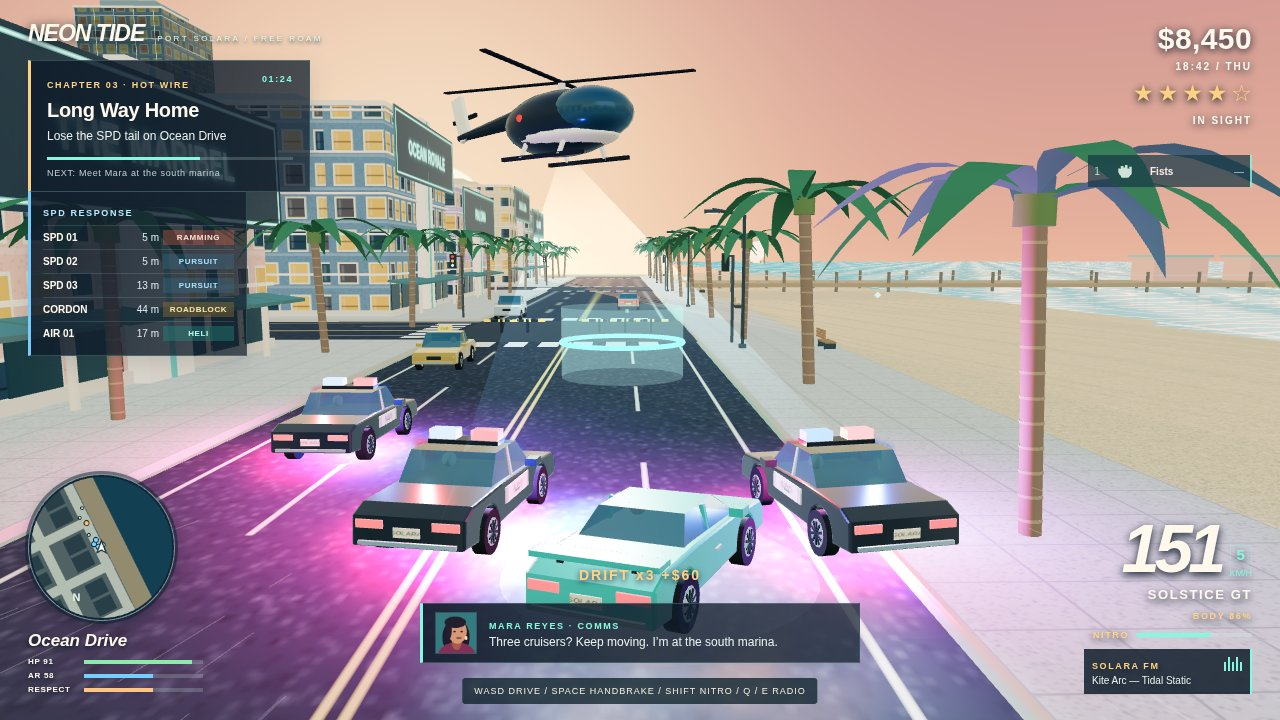
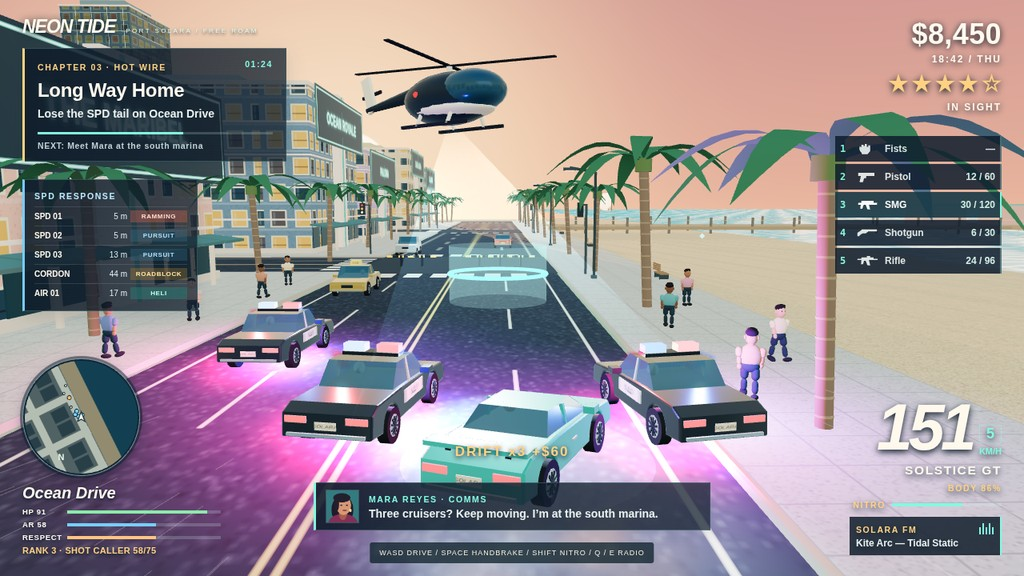
Show full loadout, pedestrians, daytime street combat and bolder HUD in screenshots

diff --git a/game/src/ui/hud.css b/game/src/ui/hud.css
@@ -23,18 +23,18 @@ header, section, aside, #hint, #reticle { position: fixed; pointer-events: none;
   border-left: 3px solid var(--amber);
   box-shadow: 0 7px 22px #12203024;
 }
-#mission { left: 28px; top: 60px; width: 282px; }
-small, time { font-size: 9px; font-weight: 700; letter-spacing: 1.6px; color: var(--amber); }
+#mission { left: 28px; top: 60px; width: 330px; }
+small, time { font-size: 10.5px; font-weight: 800; letter-spacing: 1.6px; color: var(--amber); }
 #timer { float: right; color: var(--aqua); font-variant-numeric: tabular-nums; }
-h1 { font-size: 20px; margin: 7px 0 5px; letter-spacing: -0.3px; }
-p { margin: 0; font-size: 12px; color: #e8f1ef; line-height: 1.5; }
+h1 { font-size: 24px; font-weight: 800; margin: 7px 0 5px; letter-spacing: -0.3px; }
+p { margin: 0; font-size: 14px; font-weight: 700; color: #e8f1ef; line-height: 1.5; }
 .meter { height: 4px; background: #d5fff731; overflow: hidden; }
 .meter::before { content: ''; display: block; height: 100%; width: var(--fill, 0%); background: var(--aqua); }
 #stage { height: 3px; margin: 12px 0 8px; }
-footer { font-size: 9px; letter-spacing: 0.65px; color: #bed0d4; }
+footer { font-size: 10.5px; font-weight: 700; letter-spacing: 0.65px; color: #bed0d4; }
 
 /* Dispatch rows: unit, distance, and status. */
-#response { left: 28px; top: 191px; width: 219px; border-left-color: #79cbff; padding: 10px 12px; }
+#response { left: 28px; top: 224px; width: 219px; border-left-color: #79cbff; padding: 10px 12px; }
 #response > small { color: #b9e9ff; }
 #response-list { list-style: none; padding: 0; margin: 5px 0 0; }
 #response li { display: grid; grid-template-columns: 1fr 38px 71px; align-items: center; gap: 4px; }
@@ -47,22 +47,22 @@ footer { font-size: 9px; letter-spacing: 0.65px; color: #bed0d4; }
 #response li small[data-status='HELI'] { color: #b5ffea; background: #268a8066; }
 
 #wallet { right: 28px; top: 22px; text-align: right; text-shadow: 0 2px 8px #071322; }
-#wallet b { display: block; font-size: 30px; letter-spacing: 0.4px; }
-#wallet span { font-size: 10px; letter-spacing: 2px; font-weight: bold; }
-#stars { font-size: 23px; color: var(--amber); letter-spacing: 4px; margin: 6px -4px 3px 0; }
+#wallet b { display: block; font-size: 36px; font-weight: 800; letter-spacing: 0.4px; }
+#wallet span { font-size: 12px; letter-spacing: 2px; font-weight: 800; }
+#stars { font-size: 28px; font-weight: 800; color: var(--amber); letter-spacing: 4px; margin: 6px -4px 3px 0; }
 #stars.searching { animation: search-pulse 0.85s alternate infinite; }
 @keyframes search-pulse { to { opacity: 0.45; } }
-#weapons { right: 28px; top: 155px; width: 164px; display: grid; gap: 3px; }
+#weapons { right: 28px; top: 170px; width: 208px; display: grid; gap: 3px; }
 #weapons > div {
   display: grid; grid-template-columns: 16px 30px 1fr auto; gap: 5px; align-items: center;
-  padding: 5px 6px; background: #0e1c2cc9; border-right: 2px solid #a2ece360;
-  font-size: 10px; color: #e0e8e7;
+  padding: 5px 6px; background: #0e1c2ce8; border-right: 2px solid #a2ece360;
+  font-size: 12px; font-weight: 800; color: #e0e8e7;
 }
 #weapons > div.active { background: #173846f5; border-color: var(--aqua); color: #fff; }
 #weapons kbd { color: var(--aqua); }
 #weapons svg { width: 27px; height: 22px; fill: currentColor; }
-#weapons span { font-variant-numeric: tabular-nums; color: #d2efe7; }
-#weapons.stowed { opacity: 0.76; }
+#weapons span { font-variant-numeric: tabular-nums; color: #d2efe7; white-space: nowrap; }
+#weapons.stowed { opacity: 0.94; }
 #reticle { top: 50%; left: 50%; width: 10px; height: 10px; transform: translate(-50%, -50%); }
 #reticle { border: 1px solid #f5ffed; border-radius: 50%; box-shadow: 0 0 4px #071322; }
 #failure { inset: 0; display: grid; align-content: center; text-align: center;
@@ -70,27 +70,28 @@ footer { font-size: 9px; letter-spacing: 0.65px; color: #bed0d4; }
 #failure strong { color: #ff8194; font-size: clamp(3rem, 12vw, 8rem);
   font-style: italic; letter-spacing: 0.08em; }
 
-#location { left: 28px; bottom: 26px; width: 175px;
+#location { left: 28px; bottom: 26px; width: 248px;
   text-shadow: 0 2px 5px #071322; }
 #minimap { display: block; width: 147px; height: 147px; border-radius: 50%; background: #132538; }
 #minimap { border: 1px solid #c0eee38c; outline: 3px solid #0d1d2c80; box-shadow: 0 6px 16px #08162575; }
-h2 { margin: 10px 0 6px; font-size: 17px; font-style: italic; }
+h2 { margin: 10px 0 6px; font-size: 20px; font-weight: 800; font-style: italic; }
 .vitals { display: grid; grid-template-columns: 49px 1fr; gap: 5px 7px; align-items: center; }
-.vitals span { font-size: 8px; font-weight: bold; letter-spacing: 0.7px; }
+.vitals span { font-size: 9.5px; font-weight: 800; letter-spacing: 0.7px; }
 #health::before { background: #8bebaa; }
 #armour::before { background: #74cfff; }
 #respect::before { background: #ffc581; }
+#rank { grid-column: 1 / -1; font-size: 11px; font-weight: 800; letter-spacing: 0.3px; color: var(--amber); white-space: nowrap; }
 
-#speedometer { right: 28px; bottom: 26px; width: 168px; text-align: right; text-shadow: 0 3px 9px #081724; }
+#speedometer { right: 28px; bottom: 26px; width: 190px; text-align: right; text-shadow: 0 3px 9px #081724; }
 .dial { display: flex; justify-content: flex-end; align-items: end; gap: 8px; margin-bottom: 4px; }
-.dial strong { font-size: 69px; font-weight: 700; font-style: italic;
+.dial strong { font-size: 81px; font-weight: 800; font-style: italic;
   line-height: 0.86; letter-spacing: -5px; }
-.dial b, .dial span { display: block; font-size: 9px; color: var(--aqua); }
-.dial b { font-size: 15px; border: 1px solid #a2ece380; text-align: center; margin-bottom: 4px; }
-h3 { font-size: 13px; margin: 9px 0 3px; letter-spacing: 1.6px; }
+.dial b, .dial span { display: block; font-size: 11px; font-weight: 800; color: var(--aqua); }
+.dial b { font-size: 18px; border: 1px solid #a2ece380; text-align: center; margin-bottom: 4px; }
+h3 { font-size: 15.5px; font-weight: 800; margin: 9px 0 3px; letter-spacing: 1.6px; }
 .nitro { display: grid; grid-template-columns: 45px 1fr; gap: 8px; align-items: center; margin: 7px 0 9px; }
 .radio { background: #101d2bd9; border-right: 2px solid var(--aqua); padding: 6px 8px; text-align: left; }
-.radio p { font-size: 10px; }
+.radio p { font-size: 12px; }
 #eq { float: right; display: flex; gap: 2px; height: 16px; align-items: end; }
 #eq i { width: 2px; height: 9px; background: var(--aqua); transform-origin: bottom; }
 #eq i:nth-child(even) { height: 14px; }
@@ -99,13 +100,13 @@ h3 { font-size: 13px; margin: 9px 0 3px; letter-spacing: 1.6px; }
 #eq.on i:nth-child(3n) { animation-delay: -0.15s; }
 @keyframes beat { to { transform: scaleY(0.24); } }
 
-#dialogue { left: 50%; bottom: 57px; transform: translateX(-50%); width: min(440px, 59vw); }
+#dialogue { left: 50%; bottom: 57px; transform: translateX(-50%); width: min(496px, 59vw); }
 #dialogue { display: flex; gap: 12px; align-items: center;
   border-left-color: var(--aqua); padding: 8px 12px; }
-#portrait { width: 42px; height: 42px; border: 1px solid var(--edge); }
+#portrait { width: 42px; height: 42px; flex-shrink: 0; border: 1px solid var(--edge); }
 #speaker { color: var(--aqua); }
-#callout { bottom: 137px; left: 50%; transform: translateX(-50%); color: var(--amber); }
-#callout { font-size: 14px; font-weight: 800; letter-spacing: 2px; text-shadow: 0 2px 6px #13172a; }
+#callout { bottom: 145px; left: 50%; transform: translateX(-50%); color: var(--amber); }
+#callout { font-size: 17px; font-weight: 800; letter-spacing: 2px; text-shadow: 0 2px 6px #13172a; }
 #hint {
   bottom: 16px; left: 50%; transform: translateX(-50%); white-space: nowrap;
   font-size: 9px; letter-spacing: 1px; background: #10232cc7; padding: 8px 12px;
@@ -116,11 +117,11 @@ h3 { font-size: 13px; margin: 9px 0 3px; letter-spacing: 1.6px; }
 @media (max-width: 850px), (max-height: 620px) {
   #identity span { display: none; }
   #mission { width: 238px; }
-  #response { width: 187px; top: 210px; }
-  #weapons { width: 135px; }
+  #response { width: 187px; top: 250px; }
+  #weapons { width: 176px; }
   #weapons > div { grid-template-columns: 13px 23px 1fr auto; gap: 3px; }
   #weapons svg { width: 21px; }
-  #location { width: 128px; }
+  #location { width: 248px; }
   #minimap { width: 112px; height: 112px; }
   #hint { font-size: 7px; letter-spacing: 0; }
 }

diff --git a/game/src/shots.js b/game/src/shots.js
@@ -68,6 +68,9 @@ export function setupShot(name, game, random) {
     hero.speed = 41.9;
     hero.driverHead.visible = true;
     player.vehicle = hero;
+    weapons.select(2);
+    weapons.slots[2].ammo = 30;
+    weapons.slots[2].reserve = 120;
     vitals.health = 91;
     vitals.armour = 58;
     const cruisers = [[100.4, 7.1, 2.94], [107.5, 7.3, 3.34], [96, 0.5, 3.08]];
@@ -86,6 +89,17 @@ export function setupShot(name, game, random) {
     taxi.driverHead.visible = true;
     vehicles.add('suv', '#d6ddd6', 94, -46, 0);
     vehicles.add('muscle', '#e29473', 104, -58, Math.PI);
+    const walkers = [[110, 6], [112.5, 2], [110.5, -4], [113, -10],
+      [90.5, 1], [90, -6], [90.5, -13], [90, -19]];
+    walkers.forEach(([x, z], index) => {
+      // The system keeps add private; reveal and pose its existing sidewalk actors.
+      const person = pedestrians.people[index];
+      person.position.set(x, 0.22, z);
+      person.yaw = index % 2 ? 0.3 : 2.8;
+      person.character.root.rotation.y = person.yaw;
+      person.character.root.visible = true;
+      person.character.animate(0.12 + index * 0.09, 1.2);
+    });
     camera.fov = 48;
     camera.position.set(103.4, 5.3, 22.4);
     camera.lookAt(103.7, 3.55, 8.7);
@@ -96,14 +110,13 @@ export function setupShot(name, game, random) {
     progress.flash = 3;
     Object.assign(hud, {
       district: 'Ocean Drive',
-      compactWeapons: true,
       mission: { chapter: 'CHAPTER 03 · HOT WIRE', name: 'Long Way Home', timer: '01:24', stage: 62,
         objective: 'Lose the SPD tail on Ocean Drive', next: 'Meet Mara at the south marina' },
       dialogue: { speaker: 'MARA REYES · COMMS', line: 'Three cruisers? Keep moving. I’m at the south marina.' },
       hint: 'WASD DRIVE   /   SPACE HANDBRAKE   /   SHIFT NITRO   /   Q / E RADIO'
     });
   } else {
-    sky.setNight(true);
+    sky.setNight(false);
     createNeonRow(scene, textures, random);
     player.position.set(23.35, 0.22, 14.6);
     player.character.root.position.copy(player.position);
@@ -132,6 +145,22 @@ export function setupShot(name, game, random) {
     shotFX.wreck(wreck.position);
     vehicles.add('suv', '#6f859b', 29.65, 7.25, 3.35);
     vehicles.add('van', '#966585', 19.0, -27, 0);
+    [[27.3, -18, Math.PI], [20.7, -34, 0]].forEach(([x, z, yaw], index) => {
+      const car = vehicles.add(index ? 'taxi' : 'muscle', index ? '#eebb47' : '#e2d9bf', x, z, yaw, true);
+      car.driverHead.visible = true;
+      car.speed = 7;
+      traffic.fleet.push(car);
+    });
+    const bystanders = [[15, -9], [15.4, -16], [33, -11], [32.7, -18], [33.2, -27]];
+    bystanders.forEach(([x, z], index) => {
+      const person = pedestrians.people[index];
+      person.position.set(x, 0.22, z);
+      person.yaw = Math.PI + (index % 2 ? 0.2 : -0.2);
+      person.flee = 8;
+      person.character.root.rotation.y = person.yaw;
+      person.character.root.visible = true;
+      person.character.animate(0.1 + index * 0.07, 4.7);
+    });
     const hit = new THREE.Vector3(28.75, 1.15, 8.85);
     effects.impact(hit, 21);
     effects.shot(new THREE.Vector3(23.44, 1.58, 13.75), hit, false, 2);

diff --git a/game/src/ui/hud.js b/game/src/ui/hud.js
@@ -10,6 +10,7 @@ const icons = [
 ];
 const cashFormat = new Intl.NumberFormat('en-US');
 const timePart = value => String(value).padStart(2, '0');
+const rankTitles = ['STREET RAT', 'HUSTLER', 'SHOT CALLER', 'KINGPIN'];
 
 function portrait(canvas) {
   const ctx = canvas.getContext('2d');
@@ -38,6 +39,9 @@ export function createHud(player, vehicles, city, {
 }) {
   const el = id => document.getElementById(id);
   const map = createMinimap(el('minimap'), city, player);
+  const rankLine = document.createElement('span');
+  rankLine.id = 'rank';
+  el('respect').after(rankLine);
   const weaponRows = weapons.slots.map((slot, index) => {
     const row = document.createElement('div');
     row.innerHTML = `<kbd>${index + 1}</kbd><svg viewBox="0 0 32 22" aria-hidden="true">
@@ -92,6 +96,9 @@ export function createHud(player, vehicles, city, {
     meter('health', vitals.health);
     meter('armour', vitals.armour);
     meter('respect', progress.respect);
+    const respect = Math.max(0, Math.floor(progress.respect));
+    const rank = Math.min(3, Math.floor(respect / 25));
+    rankLine.textContent = `RANK ${rank + 1} · ${rankTitles[rank]} ${respect}/${(rank + 1) * 25}`;
     text('health-value', Math.ceil(vitals.health));
     text('armour-value', Math.ceil(vitals.armour));
     map.draw(entries, gangs.members, vehicles.vehicles, presentation.route ?? []);
